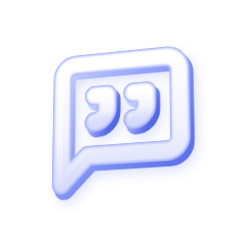
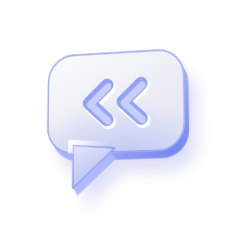
Labo newsletter : icônes verre 3D en solides pleins, au plus près des formes du site

Changed region(s): [[0.175, 0.175, 0.8167, 0.8458]]

diff --git a/clipper/newsletter_lab/icones_verre.py b/clipper/newsletter_lab/icones_verre.py
@@ -1,68 +1,81 @@
-"""Icônes « verre 3D » dans le style des formes du site weareaipartners.com (A, losange, barre de la section « Our Approach ») :
-corps translucide blanc-lilas, tranche bleue, reflet en haut, halo bleu en bas, légère inclinaison en perspective.
-Fabriquées à partir des tracés Lucide (ISC, MARQUES/ai-corner/assets/icons/) rendus en tube épais par Chrome (aucune image du site recopiée).
-Arthur, 10/11/2026 : « garde ceux qui existent pour nos trois offres ; pour le reste, crée toi-même des images dans le même style mais qui ont du sens ».
+"""Icônes « verre 3D » dans le style EXACT des formes du site weareaipartners.com (A, losange, barre de la section « Our Approach ») :
+des SOLIDES pleins (pas des traits) à face avant blanche et dépolie, tranche épaisse bleu translucide visible en bas à droite, liseré bleu,
+halo bleu au pied de la forme, reflet blanc en haut à gauche, légère perspective. Détails (coche, guillemets…) gravés en creux dans la face.
+Arthur, 10/11/2026 : « garde ceux qui existent pour nos trois offres ; pour le reste, crée toi-même des images dans le même style mais qui ont
+du sens », puis « fais vraiment dans le même style que les composants que je t'ai donnés ».
+Dessinées ici (formes géométriques simples, comme le A / losange / barre), aucune image du site recopiée.
 
-python -m clipper.newsletter_lab.icones_verre   -> planche de contrôle dans MARQUES/ai-corner/assets/icones_verre/
+python -m clipper.newsletter_lab.icones_verre   -> MARQUES/ai-corner/assets/icones_verre/<nom>.png + _planche.png (avec les formes du site)
 """
 from __future__ import annotations
 
-import re
 from pathlib import Path
 
 ROOT = Path(__file__).resolve().parents[2]
-ICONS = ROOT / "MARQUES" / "ai-corner" / "assets" / "icons"
 OUT = ROOT / "MARQUES" / "ai-corner" / "assets" / "icones_verre"
+SITE = ROOT / "MARQUES" / "ai-corner" / "assets" / "formes_site"
+
+# Silhouettes pleines (viewBox 200 x 200) et détails gravés, par icône. « fill-rule » evenodd pour les anneaux.
+FORMES = {
+    "badge-check": ('<circle cx="100" cy="94" r="62"/>',
+                    '<path d="M70 95 L92 117 L132 74"/>'),
+    "server": ('<rect x="38" y="36" width="124" height="54" rx="20"/><rect x="38" y="110" width="124" height="54" rx="20"/>',
+               '<path d="M64 63 h0 M64 137 h0 M92 63 h44 M92 137 h44"/>'),
+    "message-square-quote": ('<rect x="32" y="38" width="136" height="98" rx="26"/><path d="M58 128 L58 170 L100 132 Z"/>',
+                             '<path d="M92 70 l-18 17 l18 17 M126 70 l-18 17 l18 17"/>'),
+    "users": ('<circle cx="132" cy="70" r="21"/><path d="M98 162 a36 36 0 0 1 70 0 Z"/><circle cx="80" cy="66" r="26"/><path d="M34 164 a46 46 0 0 1 92 0 Z"/>',
+              ''),
+    "rocket": ('<path d="M156 44 L156 118 L130 92 L72 150 L50 128 L108 70 L82 44 Z"/>', ''),
+    "target": ('<path fill-rule="evenodd" d="M100 30 a64 64 0 1 1 -0.1 0 Z M100 56 a38 38 0 1 0 0.1 0 Z"/><circle cx="100" cy="94" r="17"/>', ''),
+    "layers": ('<path d="M100 98 L164 132 L100 166 L36 132 Z"/><path d="M100 66 L164 100 L100 134 L36 100 Z"/><path d="M100 34 L164 68 L100 102 L36 68 Z"/>', ''),
+}
 
 
-def _inner(nom: str) -> str:
-    svg = (ICONS / f"lucide_{nom}.svg").read_text(encoding="utf-8")
-    return re.search(r"<svg[^>]*>(.*)</svg>", svg, re.S).group(1)
-
-
-EPAISSEUR = {"landmark": .72, "rocket": .78, "server": .9, "message-square-quote": .9}   # tracés détaillés : tube plus fin
-
-
-def glass(nom: str, px: int = 240, tilt: tuple = (14, -18)) -> Path:
-    """Icône `nom` (Lucide) en verre 3D, carré de `px` (fond blanc), enregistrée dans OUT/<nom>.png."""
+def solide(nom: str, px: int = 240, tilt: tuple = (10, -14)) -> Path:
+    """Icône `nom` en verre 3D plein, carré de `px` px sur fond blanc -> OUT/<nom>.png."""
     from .piste_nouveau import _render
-    g = _inner(nom)
-    rx, ry = tilt
-    k = EPAISSEUR.get(nom, 1.0)
-
-    def layer(stroke: str, width: float, dx: float = 0, dy: float = 0, extra: str = "") -> str:
-        body = re.sub(r"<(path|circle|rect|line|polyline|polygon|ellipse)", r"<\1", g)
-        return (f'<g transform="translate({dx} {dy})" fill="none" stroke="{stroke}" stroke-width="{width}" stroke-linecap="round" '
-                f'stroke-linejoin="round" {extra}>{body}</g>')
-
-    svg = f"""<svg xmlns="http://www.w3.org/2000/svg" viewBox="-3 -3 30 30" width="{px}" height="{px}">
+    corps, gravure = FORMES[nom]
+    ext = "".join(f'<g transform="translate({i * 0.5:.2f} {i * 0.85:.2f})" fill="url(#tranche)" fill-opacity=".85">{corps}</g>' for i in range(9, 0, -1))
+    svg = f"""<svg xmlns="http://www.w3.org/2000/svg" viewBox="10 10 190 190" width="{px}" height="{px}">
 <defs>
- <linearGradient id="tranche" x1="0" y1="0" x2="1" y2="1"><stop offset="0" stop-color="#C3CCFF"/><stop offset=".55" stop-color="#7F90F5"/><stop offset="1" stop-color="#5368E8"/></linearGradient>
- <linearGradient id="corps" x1="0" y1="0" x2="0" y2="1"><stop offset="0" stop-color="#FFFFFF"/><stop offset=".6" stop-color="#F1F2FC"/><stop offset="1" stop-color="#D6DBFB"/></linearGradient>
- <linearGradient id="reflet" x1="0" y1="0" x2="1" y2="1"><stop offset="0" stop-color="#FFFFFF" stop-opacity=".95"/><stop offset=".6" stop-color="#FFFFFF" stop-opacity="0"/></linearGradient>
- <filter id="ombre" x="-30%" y="-30%" width="160%" height="160%"><feGaussianBlur stdDeviation=".9"/></filter>
- <filter id="flou" x="-20%" y="-20%" width="140%" height="140%"><feGaussianBlur stdDeviation=".18"/></filter>
+ <linearGradient id="tranche" x1="0" y1="0" x2="1" y2="1"><stop offset="0" stop-color="#E6E9FF"/><stop offset=".5" stop-color="#AEBAFB"/><stop offset="1" stop-color="#6F82F0"/></linearGradient>
+ <linearGradient id="face" x1=".1" y1="0" x2=".7" y2="1"><stop offset="0" stop-color="#FBFBFD"/><stop offset=".5" stop-color="#EEEFF5"/><stop offset="1" stop-color="#E1E4F3"/></linearGradient>
+ <radialGradient id="halo" cx=".5" cy="1.02" r=".6"><stop offset="0" stop-color="#4F62EE" stop-opacity=".5"/><stop offset="1" stop-color="#5E72F0" stop-opacity="0"/></radialGradient>
+ <linearGradient id="reflet" x1="0" y1="0" x2="1" y2="1"><stop offset="0" stop-color="#FFFFFF" stop-opacity="1"/><stop offset=".5" stop-color="#FFFFFF" stop-opacity="0"/></linearGradient>
+ <clipPath id="clip">{corps}</clipPath>
+ <filter id="ombre" x="-40%" y="-40%" width="180%" height="180%"><feGaussianBlur stdDeviation="7"/></filter>
+ <filter id="doux" x="-20%" y="-20%" width="140%" height="140%"><feGaussianBlur stdDeviation="2.2"/></filter>
 </defs>
-{layer("#3B4FD8", 3.3 * k, .9, 1.4, 'opacity=".18" filter="url(#ombre)"')}
-{layer("url(#tranche)", 3.5 * k, .5, .75)}
-{layer("#9FADF8", 3.3 * k, 0, 0)}
-{layer("url(#corps)", 2.75 * k, 0, 0, 'filter="url(#flou)"')}
-{layer("url(#reflet)", 1.0 * k, -.3, -.4)}
+<g transform="translate(12 20)" fill="#3445C9" opacity=".16" filter="url(#ombre)">{corps}</g>
+{ext}
+<g fill="url(#face)" stroke="#A3B0F8" stroke-width="1.7" stroke-linejoin="round">{corps}</g>
+<g clip-path="url(#clip)"><rect x="0" y="0" width="200" height="200" fill="url(#halo)" filter="url(#doux)"/>
+ <g fill="none" stroke="url(#reflet)" stroke-width="5" transform="translate(-2.5 -3)">{corps}</g></g>
+<g fill="none" stroke-linecap="round" stroke-linejoin="round">
+ <g stroke="#FFFFFF" stroke-width="15" transform="translate(1.6 2.2)">{gravure}</g>
+ <g stroke="#93A2F8" stroke-width="13">{gravure}</g>
+ <g stroke="#C6CEFC" stroke-width="7" transform="translate(1 1.5)">{gravure}</g>
+</g>
 </svg>"""
     page = (f"<html><body style='margin:0;background:#fff'><div style='width:{px}px;height:{px}px;perspective:{px * 4}px'>"
-            f"<div style='width:100%;height:100%;transform:rotateX({rx}deg) rotateY({ry}deg) scale(.86)'>{svg}</div></div></body></html>")
+            f"<div style='width:100%;height:100%;transform:rotateX({tilt[0]}deg) rotateY({tilt[1]}deg) scale(.82)'>{svg}</div></div></body></html>")
     OUT.mkdir(parents=True, exist_ok=True)
     f = OUT / f"{nom}.png"
     _render(page, px, px, f)
     return f
 
 
+glass = solide          # ancien nom, utilisé par piste_select.py
+
+
 if __name__ == "__main__":
     from PIL import Image
-    noms = ["badge-check", "server", "message-square-quote", "users", "rocket", "target", "landmark"]
-    files = [glass(n) for n in noms]
-    sheet = Image.new("RGB", (240 * len(files), 240), "white")
+    files = [solide(n) for n in FORMES]
+    refs = [SITE / f"forme_{k}.png" for k in ("A", "losange", "barre")]
+    sheet = Image.new("RGB", (240 * len(files), 480), "white")
     for i, f in enumerate(files):
         sheet.paste(Image.open(f).convert("RGB"), (i * 240, 0))
+    for i, f in enumerate(refs):
+        sheet.paste(Image.open(f).convert("RGB").resize((240, 240)), (i * 240, 240))
     sheet.save(OUT / "_planche.png")
     print(OUT / "_planche.png")

diff --git a/clipper/newsletter_lab/JOURNAL.md b/clipper/newsletter_lab/JOURNAL.md
@@ -23,3 +23,4 @@
 - 10/11/2026 communiqué Select : visuels (idées 1, 3, 4 d'Arthur) : 3 critères en colonnes avec tuile-pictogramme bleu nuit, pictogramme devant chaque point de « Ce que cela change », offres en 3 tuiles bleu nuit illustrées (Lucide, ISC, ajoutés à assets/icons/).
 - 10/11/2026 communiqué Select : pictogrammes remplacés par les formes 3D « verre » du site (A = Academy, losange = First Organization, barre = Factory, assemblage = les trois), dans MARQUES/ai-corner/assets/formes_site/ ; offres en cartes blanches comme sur le site.
 - 10/11/2026 communiqué Select : formes du site gardées UNIQUEMENT pour les 3 offres ; autres icônes créées dans le même style « verre 3D » (`icones_verre.py`, tracés Lucide en tube, MARQUES/ai-corner/assets/icones_verre/) : badge certifié, serveurs, citation, équipe, fusée, cible, couches.
+- 10/11/2026 icônes verre refaites en SOLIDES pleins (face blanche dépolie, tranche bleue translucide, liseré, halo au pied, détails gravés) pour coller aux formes du site ; planche de comparaison avec les formes du site.
